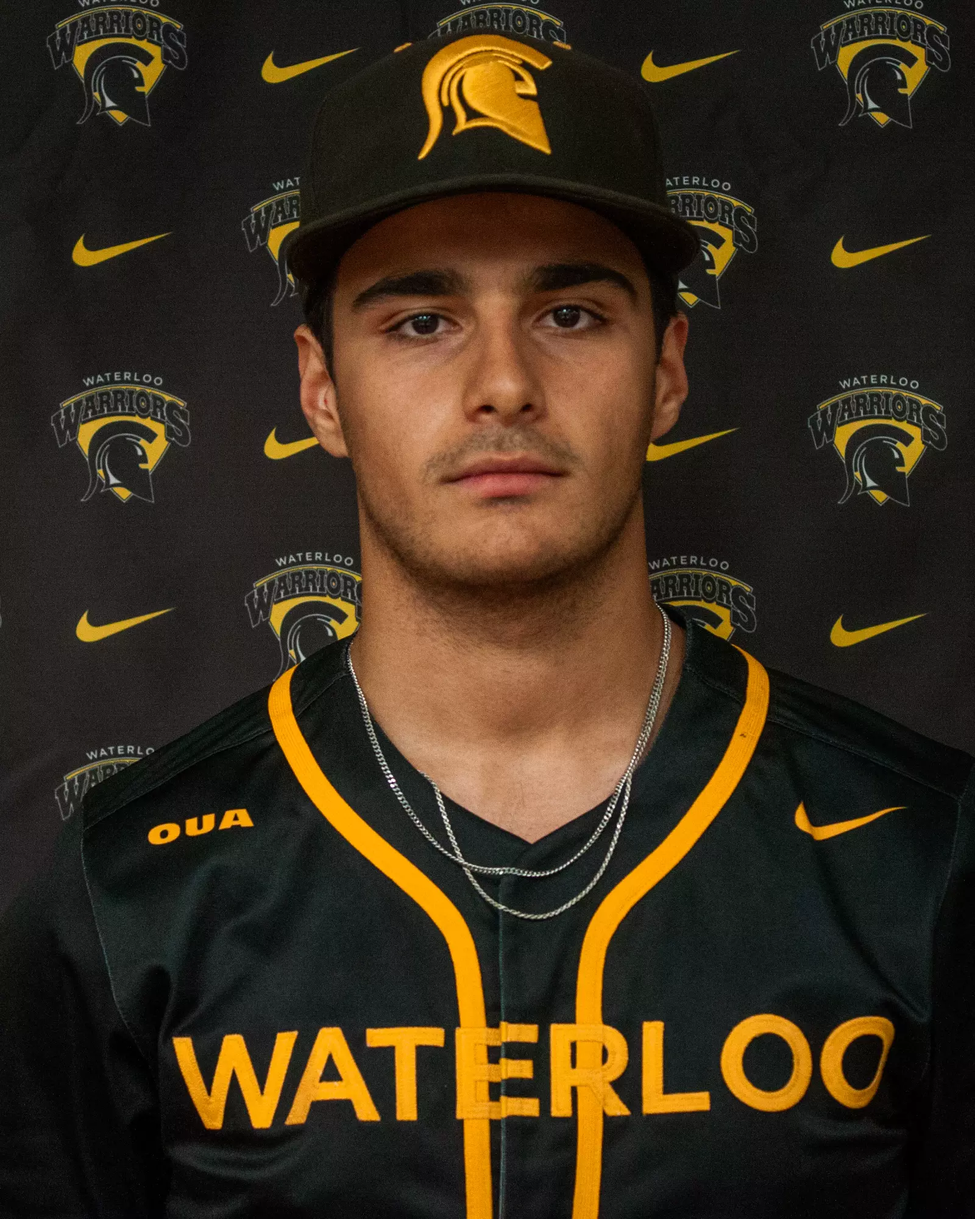
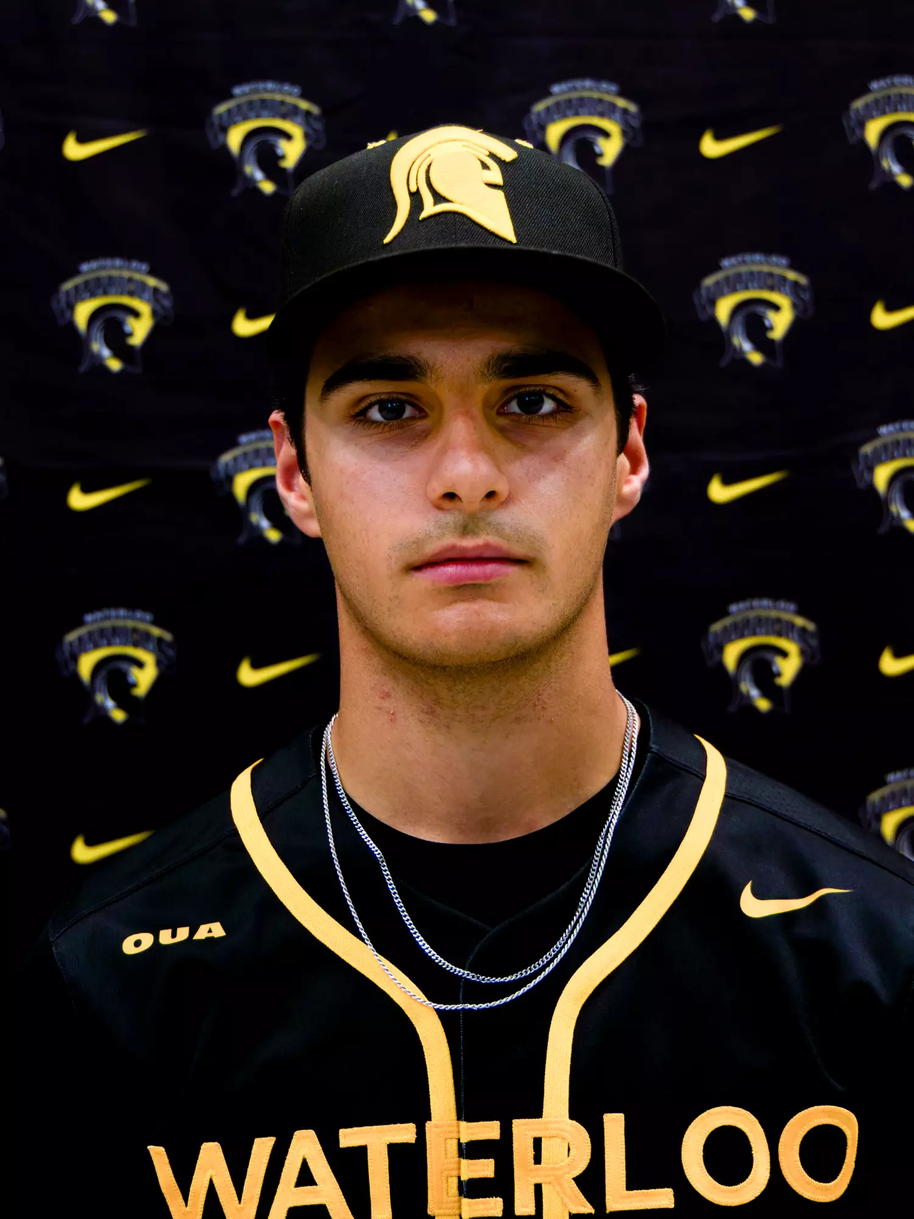
Upload verified OUA roster headshots

diff --git a/oua/brock-dashboard/index.html b/oua/brock-dashboard/index.html
@@ -405,7 +405,7 @@
       };
       const slug=name=>String(name||'').normalize('NFD').replace(/[\u0300-\u036f]/g,'').toLowerCase().replace(/[^a-z0-9]+/g,'-').replace(/^-|-$/g,'');
       function headshotFiles(player){const team=slug(player?.pitcher_team),name=slug(player?.pitcher),key=`${team}:${name}`,base=team&&name?`${team}-${name}`:'',extensions=['jpg','jpeg','png','webp'],files=[headshotAliases[key],...extensions.map(extension=>`${base}.${extension}`)];if(team==='brock-badgers')files.push(...extensions.map(extension=>`${name}.${extension}`));return files.filter((value,index,items)=>value&&items.indexOf(value)===index)}
-      function renderHeadshot(){const player=state.current,holder=$('initials'),files=headshotFiles(player);holder.classList.remove('has-headshot');holder.innerHTML='';const fallback=()=>{holder.classList.remove('has-headshot');holder.textContent=initials(player?.pitcher)};const load=index=>{if(index>=files.length){fallback();return}const image=new Image();image.src=`headshots/${files[index]}?v=portrait-reset-20260923`;image.alt=`${player.pitcher} headshot`;image.onload=()=>{holder.classList.add('has-headshot');holder.replaceChildren(image)};image.onerror=()=>load(index+1)};load(0)}
+      function renderHeadshot(){const player=state.current,holder=$('initials'),files=headshotFiles(player);holder.classList.remove('has-headshot');holder.innerHTML='';const fallback=()=>{holder.classList.remove('has-headshot');holder.textContent=initials(player?.pitcher)};const load=index=>{if(index>=files.length){fallback();return}const image=new Image();image.src=`headshots/${files[index]}?v=verified-roster-20260923`;image.alt=`${player.pitcher} headshot`;image.onload=()=>{holder.classList.add('has-headshot');holder.replaceChildren(image)};image.onerror=()=>load(index+1)};load(0)}
       ['player','team'].forEach(id=>$(id).addEventListener('change',()=>setTimeout(renderHeadshot,120)));document.querySelectorAll('[data-role]').forEach(button=>button.addEventListener('click',()=>setTimeout(renderHeadshot,120)));setTimeout(renderHeadshot,3000);
     })();
   </script>

diff --git a/oua/brock-dashboard/scouting.html b/oua/brock-dashboard/scouting.html
@@ -1884,7 +1884,7 @@ Zane Skansi,Kitchener Panthers`;
           ctx.beginPath();ctx.arc(size/2,size/2,size/2-5,0,Math.PI*2);ctx.lineWidth=10;ctx.strokeStyle='#cfd5f2';ctx.stroke();
           reportHeadshotData=c.toDataURL('image/png');resolve(reportHeadshotData);
         };
-        img.onerror=function(){next(i+1);};img.src=sources[i]+'?v=portrait-reset-20260923';
+        img.onerror=function(){next(i+1);};img.src=sources[i]+'?v=verified-roster-20260923';
       } next(0);
     });
   }
